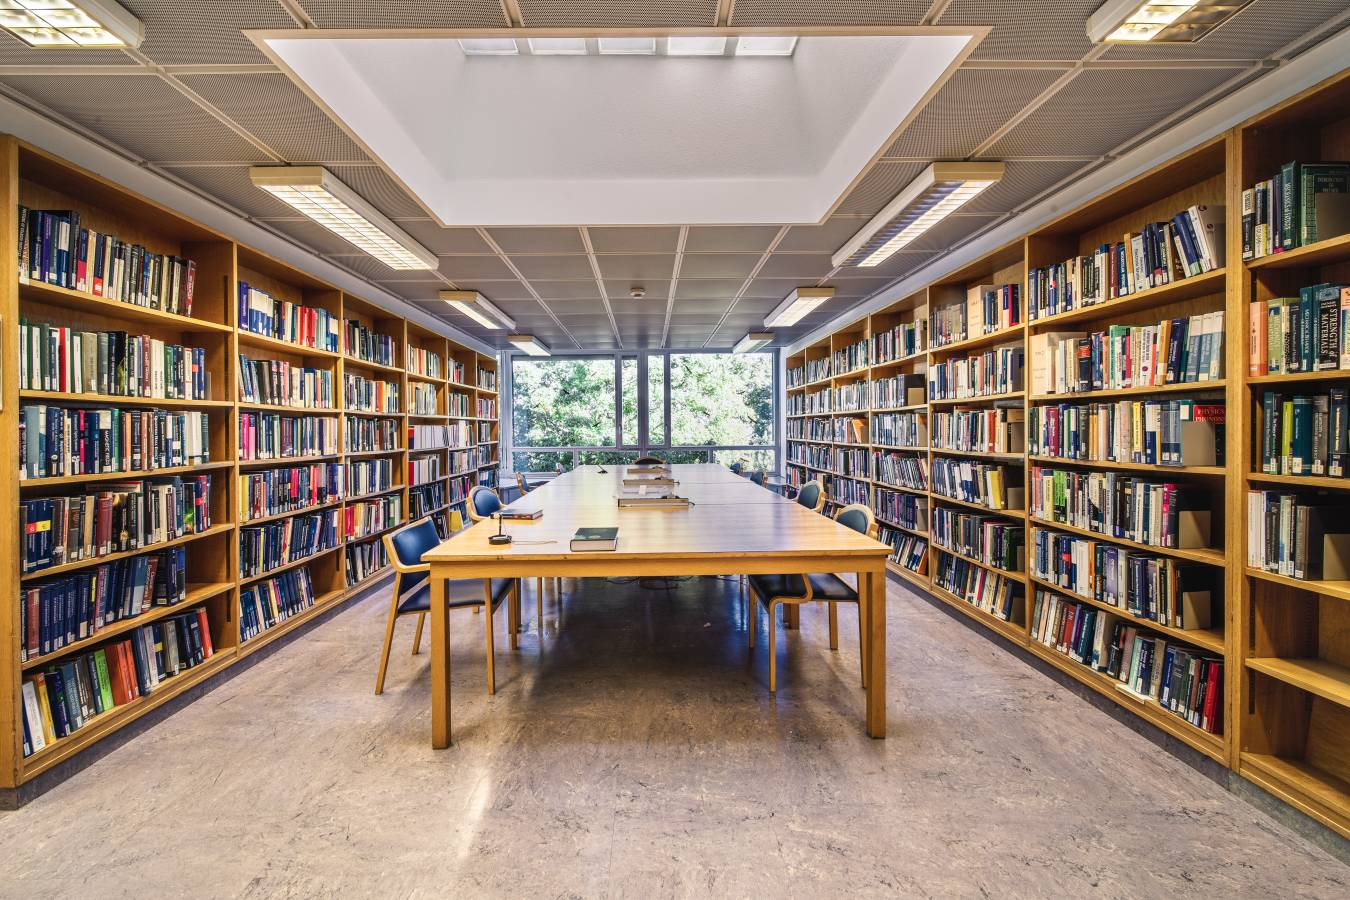
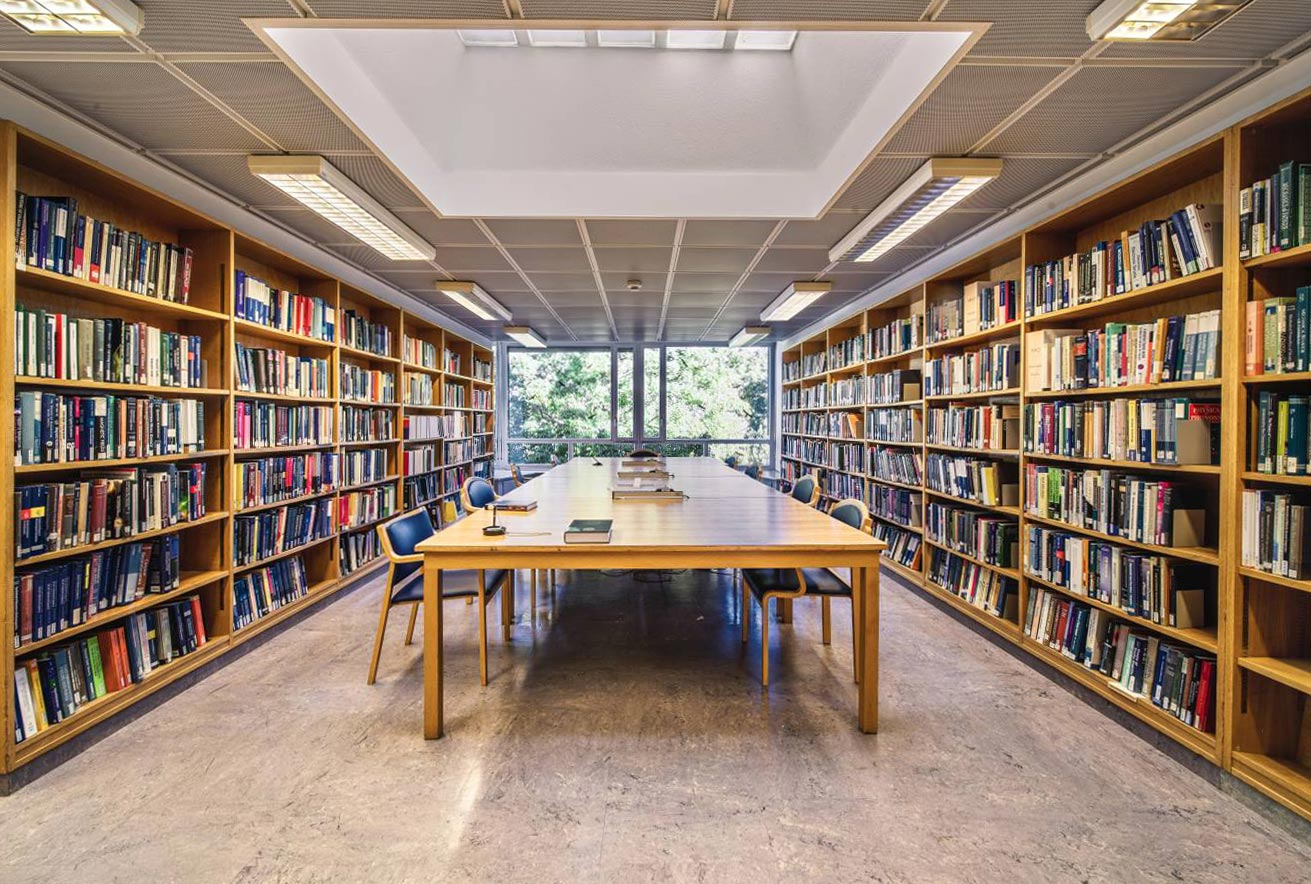
replace background img and upgrade oauthclient
* upgrade invenio-oauthclient to allow token login
* replace homepage background image
* remove unused theme and assets

diff --git a/setup.py b/setup.py
@@ -38,7 +38,7 @@ install_requires = [
     "uwsgi-tools>=1.1.1",
     "fuzzywuzzy>=0.18.0",
     "python-ldap>=3.2.0,<3.3.0",
-    "invenio-oauthclient>=1.3.4,<1.4.0",
+    "invenio-oauthclient>=1.3.5,<1.4.0",
     "invenio-app-ils[lorem,elasticsearch7,postgresql]==1.0.0a19",
     "sentry-sdk>=0.10.2",
     # migrator deps
@@ -85,15 +85,11 @@ setup(
         "invenio_base.api_apps": ["cds_ils = cds_ils.ext:CdsIls"],
         "invenio_base.apps": ["cds_ils_app = cds_ils.ext:CdsIls"],
         "invenio_base.blueprints": [
-            "cds_ils = cds_ils.theme.views:blueprint",
             "cds_ils_admin = cds_ils.ldap.admin:blueprint",
         ],
         "invenio_base.api_blueprints": [
             "cds_ils_patron_loans = cds_ils.patrons.views:create_patron_loans_blueprint",
             "cds_ils_logout = cds_ils.authentication.views:cern_oauth_blueprint",
-        ],
-        "invenio_assets.webpack": [
-            "cds_ils_theme = cds_ils.theme.webpack:theme"
         ],
         "invenio_config.module": ["cds_ils = cds_ils.config"],
         "invenio_celery.tasks": [

diff --git a/docs/api.rst b/docs/api.rst
@@ -1,5 +1,5 @@
 ..
-    Copyright (C) 2019 CERN.
+    Copyright (C) 2020 CERN.
 
     CDS-ILS is free software; you can redistribute it and/or modify it
     under the terms of the MIT License; see LICENSE file for more details.
@@ -7,9 +7,3 @@
 
 API Docs
 ========
-
-Views
------
-
-.. automodule:: cds_ils.theme.views
-   :members:
